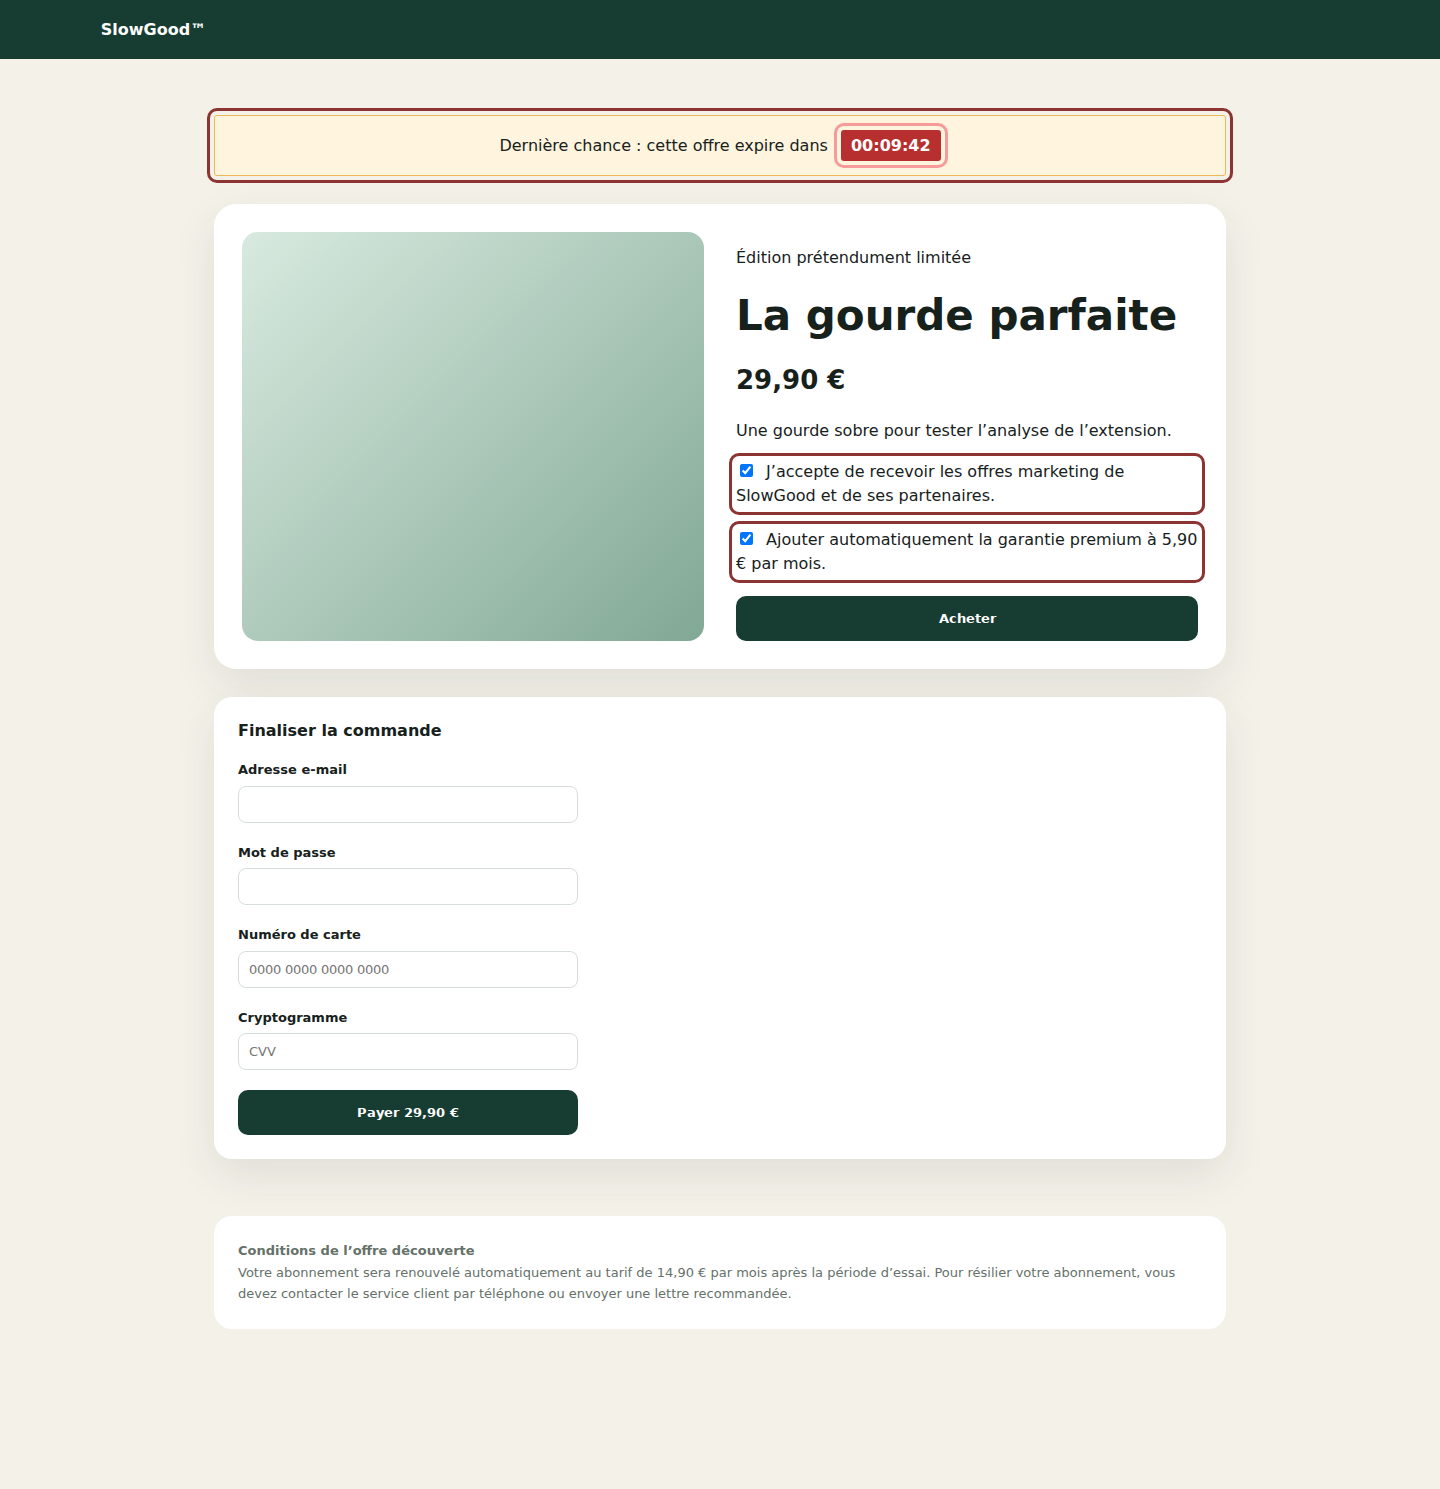
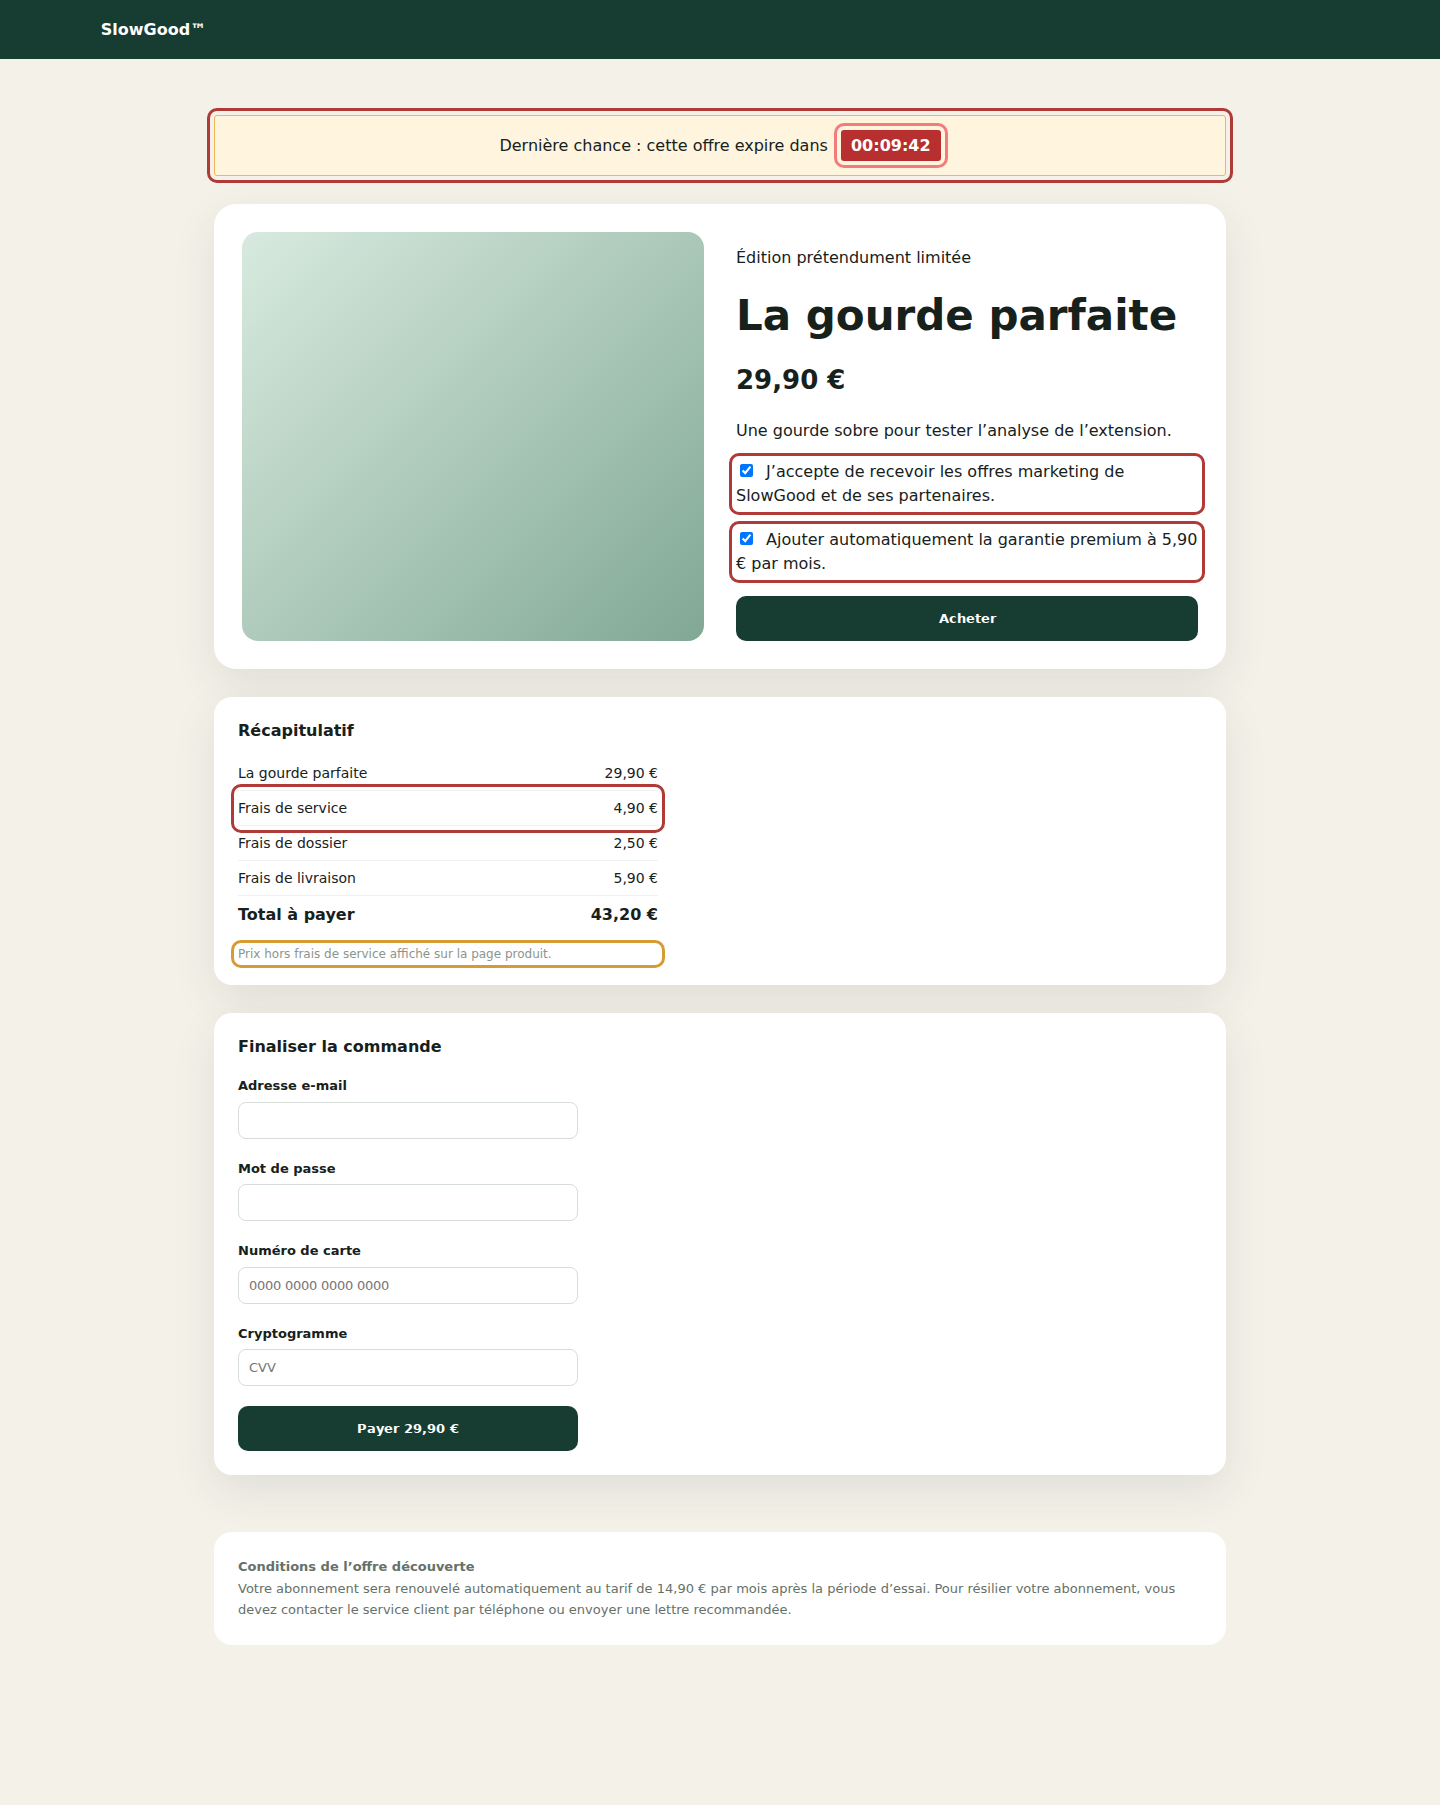
feat: détecter les coûts ajoutés au dernier moment
Le prix mis en avant n'est pas celui que l'acheteur paiera : des frais
apparaissent au récapitulatif ou au paiement. Nouvelle catégorie « Coûts
ajoutés », avec deux détections.

- frais lus dans les lignes courtes d'un récapitulatif, avec leur montant.
  Les frais opaques (service, dossier, gestion, réservation, transaction,
  supplément, booking fee…) sont distingués des frais attendus (livraison,
  port, expédition) : seuls les premiers peuvent porter la sévérité haute.
  Quand un total est présent, le rapport indique la part des frais dedans.
- mentions annonçant un prix incomplet : « hors frais », « + frais »,
  « frais non inclus », « before fees ».

detector-rules.js gagne les expressions correspondantes et parseAmount,
qui lit les montants en format français comme anglais ; test-rules.js
couvre les deux formats et la distinction frais opaques / frais attendus.

Garde-fous, faute de quoi la détection se déclenche hors tunnel d'achat :
la page doit présenter un total ou un vocabulaire d'achat, et les lignes
retenues font au plus 140 caractères. Vérifié sans faux positif sur des
pages économie du Monde et de franceinfo, et sur l'article Wikipédia
« Drip pricing », qui parle de frais sans en facturer.

Faux positif corrigé au passage, relevé sur eventbrite.fr : les heures de
début d'événement (« aujourd'hui à 21:00 ») étaient prises pour des
décomptes. Un motif scheduleMarker écarte désormais jours, mois, dates et
[…]

Changed region(s): [[0.0, 0.0, 1.0, 0.8959]]

diff --git a/content-scanner.js b/content-scanner.js
@@ -4,6 +4,7 @@
   // `detector-rules.js` doit être injecté avant ce fichier : il porte les
   // expressions de détection, partagées avec les tests exécutés sous Node.
   const patterns = globalThis.__dpaDetectorRules?.patterns;
+  const parseAmount = globalThis.__dpaDetectorRules?.parseAmount;
   if (!patterns) {
     console.warn("Dark Pattern Alert : detector-rules.js n’a pas été chargé, analyse annulée.");
     return;
@@ -18,7 +19,8 @@
     preselection: "Choix précoché",
     urgency: "Urgence artificielle",
     visual: "Interface trompeuse",
-    cancellation: "Abonnement et résiliation"
+    cancellation: "Abonnement et résiliation",
+    cost: "Coûts ajoutés"
   };
 
   const state = {
@@ -207,7 +209,8 @@
       commercial: commercialPattern,
       clock: clockPattern,
       duration: durationPattern,
-      readingTime: readingTimePattern
+      readingTime: readingTimePattern,
+      scheduleMarker: schedulePattern
     } = patterns;
 
     const explicitTimers = document.querySelectorAll(
@@ -229,6 +232,9 @@
       const hasClock = clockPattern.test(ownText);
       const hasDuration = durationPattern.test(ownText);
       if (!hasClock && !hasDuration) continue;
+      // Une heure de rendez-vous n’est pas un décompte, même sur une page
+      // marchande : « aujourd’hui à 21:00 », « 7 août, 23:59 ».
+      if (schedulePattern.test(ownText)) continue;
       const context = nearbyText(element);
       if (readingTimePattern.test(context)) continue;
       const marker = lower(`${element.id} ${element.className || ""} ${element.getAttribute("role") || ""}`);
@@ -367,6 +373,94 @@
     }
   };
 
+  // Coûts révélés en fin de parcours : le prix mis en avant n'est pas celui
+  // que l'acheteur paiera. On travaille sur les lignes courtes d'un
+  // récapitulatif, les phrases longues étant du texte éditorial ou légal.
+  const scanLateCosts = (textCandidates) => {
+    const { opaqueFee, expectedFee, totalLabel, hiddenCostMention, commercial } = patterns;
+    const MAX_LINE = 140;
+
+    const lines = textCandidates.filter((element) => {
+      const text = elementText(element, MAX_LINE + 1);
+      return text.length > 0 && text.length <= MAX_LINE;
+    });
+
+    const collect = (pattern) => {
+      const found = new Map();
+      for (const element of lines) {
+        const text = elementText(element, MAX_LINE);
+        if (!pattern.test(text)) continue;
+        const amount = parseAmount(text);
+        if (amount === null || amount <= 0) continue;
+        // Un même montant se répète souvent dans des conteneurs imbriqués.
+        const key = `${lower(text).replace(/[\d.,]/g, "")}|${amount}`;
+        if (!found.has(key)) found.set(key, { element, text, amount });
+      }
+      return [...found.values()];
+    };
+
+    const opaque = collect(opaqueFee);
+    const expected = collect(expectedFee);
+    const totals = collect(totalLabel);
+    const pageIsCommercial = totals.length > 0 || commercial.test(lower(document.body?.innerText?.slice(0, 4000) || ""));
+
+    // Un article de presse peut citer « frais de dossier : 250 € ». Sans
+    // récapitulatif ni vocabulaire d'achat, ce n'est pas un tunnel de paiement.
+    if (!pageIsCommercial) return;
+
+    // Les libellés et montants viennent souvent de deux éléments accolés.
+    const readable = (text) => text.replace(/(\p{L})(?=\d)/gu, "$1 ");
+
+    if (opaque.length > 0 || expected.length > 0) {
+      const feeSum = [...opaque, ...expected].reduce((sum, fee) => sum + fee.amount, 0);
+      const total = totals.reduce((highest, item) => Math.max(highest, item.amount), 0);
+      const share = total > 0 ? feeSum / total : null;
+      const anchor = opaque[0] || expected[0];
+      const listed = [...opaque, ...expected]
+        .slice(0, 4)
+        .map((fee) => readable(fee.text))
+        .join(" · ");
+
+      const heavy = (share !== null && share >= 0.15) || opaque.length >= 3;
+      const detail = [
+        opaque.length > 0
+          ? "Des frais sans contrepartie identifiable s’ajoutent au prix mis en avant."
+          : "Des frais de livraison s’ajoutent au prix mis en avant.",
+        share !== null
+          ? `Ils représentent environ ${Math.round(share * 100)} % du total affiché.`
+          : "Comparez avec le prix annoncé sur la page produit avant de valider.",
+        "Vérifiez le montant réellement débité à l’étape suivante."
+      ].join(" ");
+
+      if (opaque.length > 0 || share === null || share >= 0.05) {
+        addFinding({
+          category: "cost",
+          title: opaque.length > 0 ? "Frais ajoutés au prix annoncé" : "Frais de livraison ajoutés au total",
+          detail,
+          evidence: listed,
+          severity: heavy && opaque.length > 0 ? "high" : "medium",
+          confidence: total > 0 ? 0.9 : 0.72,
+          element: anchor.element
+        });
+      }
+    }
+
+    for (const element of lines) {
+      const text = elementText(element, MAX_LINE);
+      if (!hiddenCostMention.test(text)) continue;
+      addFinding({
+        category: "cost",
+        title: "Prix annoncé sans les frais",
+        detail:
+          "La page prévient que le montant affiché est incomplet. Le coût final n’apparaîtra qu’à une étape ultérieure.",
+        evidence: text,
+        severity: "medium",
+        confidence: 0.8,
+        element
+      });
+    }
+  };
+
   const calculateScore = (findings) => {
     const weights = { high: 22, medium: 12, low: 6 };
     const base = findings.reduce(
@@ -398,6 +492,7 @@
     scanUrgency(textCandidates);
     scanMisleadingControls();
     scanCancellationFriction(textCandidates);
+    scanLateCosts(textCandidates);
 
     if (settings.includeLowConfidence === false) {
       const retained = state.findings.filter((finding) => finding.confidence >= 0.72);

diff --git a/detector-rules.js b/detector-rules.js
@@ -10,6 +10,10 @@
     // Forme durée : le plus souvent un temps de lecture ou de trajet.
     duration: /\b\d{1,2}\s*(?:min(?:ute)?s?|sec(?:onde)?s?)\b/i,
     readingTime: /temps de lecture|min(?:ute)?s? de lecture|reading time|lecture\s*:\s*\d/i,
+    // Horaire annoncé — début de séance, date limite — plutôt que décompte :
+    // un jour, un mois ou la tournure « à 21:00 » désignent un rendez-vous.
+    scheduleMarker:
+      /\b(?:aujourd['’]hui|demain|hier|lundi|mardi|mercredi|jeudi|vendredi|samedi|dimanche|janvier|f[eé]vrier|mars|avril|mai|juin|juillet|ao[uû]t|septembre|octobre|novembre|d[eé]cembre|today|tomorrow|yesterday|monday|tuesday|wednesday|thursday|friday|saturday|sunday|january|february|march|april|june|july|august|september|october|november|december)\b|\b[àa]\s?\d{1,2}\s?[:h]\d{2}\b|\b\d{1,2}[\/.]\d{1,2}[\/.]\d{2,4}\b/i,
     timer:
       /\b(?:\d{1,2}:)?\d{1,2}:\d{2}\b|\b\d{1,2}\s*(?:min(?:ute)?s?|sec(?:onde)?s?)\b/i,
     urgency:
@@ -27,10 +31,43 @@
     autoRenew:
       /renouvel(?:lement|[eé]e?)\s+automatique|reconduit(?:e)?\s+automatiquement|automatically renew|auto[- ]?renew|charged automatically after|factur[eé].{0,50}(?:apr[eè]s|[àa] la fin).{0,40}(?:essai|p[eé]riode)/i,
     onlineCancellationBlock:
-      /impossible de r[eé]silier en ligne|ne peut pas [eê]tre r[eé]sili[eé] en ligne|cannot (?:be )?cancel(?:led)? online|no online cancellation/i
+      /impossible de r[eé]silier en ligne|ne peut pas [eê]tre r[eé]sili[eé] en ligne|cannot (?:be )?cancel(?:led)? online|no online cancellation/i,
+
+    // Frais opaques : leur objet n'est pas une prestation identifiable pour
+    // l'acheteur. Ce sont eux qui caractérisent un prix révélé en plusieurs fois.
+    opaqueFee:
+      /frais\s+(?:de\s+)?(?:service|dossier|gestion|traitement|r[eé]servation|paiement|transaction|plateforme|mise en relation)|frais\s+(?:suppl[eé]mentaires|obligatoires|additionnels|divers)|frais de retard|suppl[eé]ment(?:s)?\b|majoration|service (?:fee|charge)|booking fee|handling fee|processing fee|convenience fee|resort fee|platform fee|surcharge/i,
+    // Frais attendus : légitimes, mais à signaler s'ils n'apparaissent qu'au paiement.
+    expectedFee:
+      /frais\s+(?:de\s+)?(?:livraison|port|exp[eé]dition|transport)|participation aux frais de port|delivery fee|shipping (?:fee|cost|charges?)/i,
+    totalLabel:
+      /\btotal\b|montant (?:total|[àa] payer|d[ûu])|net [àa] payer|reste [àa] payer|order total|grand total|amount due|total to pay/i,
+    hiddenCostMention:
+      /hors frais|frais en sus|frais non inclus|\+\s*frais|hors livraison|hors options|hors taxes|prix hors|excluding fees|fees not included|plus (?:taxes|fees)|before fees/i
   };
 
-  const rules = Object.freeze({ patterns: Object.freeze(patterns) });
+  // Lecture d'un montant affiché, en format français ou anglais.
+  const parseAmount = (text = "") => {
+    const match = String(text).match(
+      /(?:€|EUR|\$|£)\s*([\d   ,.]+)|([\d   ,.]+)\s*(?:€|EUR\b|\$|£)/i
+    );
+    if (!match) return null;
+
+    const raw = (match[1] || match[2] || "").trim().replace(/[.,]$/, "");
+    if (!/\d/.test(raw)) return null;
+
+    let normalized = raw.replace(/[\s  ]/g, "");
+    if (/,\d{1,2}$/.test(normalized)) {
+      normalized = normalized.replace(/\./g, "").replace(",", ".");
+    } else {
+      normalized = normalized.replace(/,/g, "");
+    }
+
+    const value = Number.parseFloat(normalized);
+    return Number.isFinite(value) ? value : null;
+  };
+
+  const rules = Object.freeze({ patterns: Object.freeze(patterns), parseAmount });
   globalThis.__dpaDetectorRules = rules;
 
   if (typeof module !== "undefined" && module.exports) {

diff --git a/test-rules.js b/test-rules.js
@@ -40,3 +40,40 @@ assert.match("3 min", patterns.duration);
 assert.match("Temps de lecture : 4 min", patterns.readingTime);
 assert.doesNotMatch("Plus que 2 min avant la fin de l'offre", patterns.readingTime);
 console.log("Formes horloge, durée et temps de lecture distinguées.");
+
+// Lecture des montants, formats français et anglais
+const { parseAmount } = require("./detector-rules.js");
+assert.equal(parseAmount("Frais de service 4,90 €"), 4.9);
+assert.equal(parseAmount("Total 1 234,56 €"), 1234.56);
+assert.equal(parseAmount("$1,234.56"), 1234.56);
+assert.equal(parseAmount("€29.90"), 29.9);
+assert.equal(parseAmount("Frais de dossier 12€"), 12);
+assert.equal(parseAmount("Livraison offerte"), null);
+assert.equal(parseAmount("06 12 34 56 78"), null);
+assert.equal(parseAmount(""), null);
+
+// Frais opaques contre frais attendus
+assert.match("Frais de service", patterns.opaqueFee);
+assert.match("Frais de dossier", patterns.opaqueFee);
+assert.match("Booking fee", patterns.opaqueFee);
+assert.match("Supplément bagage", patterns.opaqueFee);
+assert.match("Frais de livraison", patterns.expectedFee);
+assert.doesNotMatch("Frais de livraison", patterns.opaqueFee);
+assert.doesNotMatch("Sans frais cachés", patterns.opaqueFee);
+
+// Total et mentions de prix incomplet
+assert.match("Total à payer", patterns.totalLabel);
+assert.match("Montant dû", patterns.totalLabel);
+assert.match("Prix hors frais de service", patterns.hiddenCostMention);
+assert.match("À partir de 19 € + frais", patterns.hiddenCostMention);
+assert.doesNotMatch("Tous frais inclus", patterns.hiddenCostMention);
+
+console.log("Lecture des montants et règles de frais vérifiées.");
+
+// Horaires contre décomptes
+assert.match("aujourd’hui à 21:00", patterns.scheduleMarker);
+assert.match("7 août, 23:59 (CET)", patterns.scheduleMarker);
+assert.match("Jusqu'au 12/09/2026", patterns.scheduleMarker);
+assert.doesNotMatch("00:09:42", patterns.scheduleMarker);
+assert.doesNotMatch("Plus que 02:15", patterns.scheduleMarker);
+console.log("Horaires distingués des décomptes.");

diff --git a/demo/index.html b/demo/index.html
@@ -19,6 +19,11 @@
       label { display: block; margin: 20px 0; line-height: 1.5; }
       input { margin-right: 8px; }
       .buy { width: 100%; padding: 15px; border: 0; border-radius: 10px; background: #173c31; color: white; font-weight: 800; }
+      .summary { padding: 24px; border-radius: 18px; background: white; box-shadow: 0 16px 44px #25362d18; }
+      .summary ul { max-width: 420px; margin: 16px 0 0; padding: 0; list-style: none; }
+      .summary li { display: flex; justify-content: space-between; gap: 24px; padding: 9px 0; border-bottom: 1px solid #eef1ef; font-size: 14px; }
+      .summary .grand-total { border-bottom: 0; font-size: 16px; font-weight: 900; }
+      .fineprint { max-width: 420px; margin: 14px 0 0; color: #8b958e; font-size: 12px; }
       .checkout { padding: 24px; border-radius: 18px; background: white; box-shadow: 0 16px 44px #25362d18; }
       .checkout label { display: grid; gap: 6px; max-width: 340px; font-size: 13px; font-weight: 700; }
       .checkout input { width: 100%; padding: 10px; border: 1px solid #d7ded9; border-radius: 8px; }
@@ -57,6 +62,18 @@
           </label>
           <button class="buy" type="button">Acheter</button>
         </div>
+      </section>
+
+      <section class="summary">
+        <strong>Récapitulatif</strong>
+        <ul>
+          <li><span>La gourde parfaite</span><span>29,90 €</span></li>
+          <li><span>Frais de service</span><span>4,90 €</span></li>
+          <li><span>Frais de dossier</span><span>2,50 €</span></li>
+          <li><span>Frais de livraison</span><span>5,90 €</span></li>
+          <li class="grand-total"><span>Total à payer</span><span>43,20 €</span></li>
+        </ul>
+        <p class="fineprint">Prix hors frais de service affiché sur la page produit.</p>
       </section>
 
       <section class="checkout">

diff --git a/sidepanel.js b/sidepanel.js
@@ -71,7 +71,8 @@ const categoryPresentation = {
   preselection: { label: "Choix précoché", icon: "✓" },
   urgency: { label: "Urgence", icon: "◷" },
   visual: { label: "Interface", icon: "◐" },
-  cancellation: { label: "Abonnement", icon: "↻" }
+  cancellation: { label: "Abonnement", icon: "↻" },
+  cost: { label: "Coûts ajoutés", icon: "€" }
 };
 
 const severityLabels = {
@@ -176,6 +177,7 @@ const startLoadingMessages = () => {
     "Vérification des compteurs et messages d’urgence",
     "Comparaison des boutons et choix proposés",
     "Lecture des conditions d’abonnement",
+    "Addition des frais ajoutés au total",
     "Contrôle du domaine et du chiffrement"
   ];
   let index = 0;

diff --git a/README.md b/README.md
@@ -38,6 +38,7 @@ Chrome 114 minimum (API `sidePanel`).
 | **Urgence artificielle** | compte à rebours, « dernière chance », « offre limitée » dans un contexte marchand |
 | **Interface trompeuse** | refus culpabilisant (« Non merci, je préfère payer plus cher »), bouton d’acceptation nettement plus visible que le refus |
 | **Abonnement et résiliation** | renouvellement automatique, résiliation exigeant un appel ou un courrier, résiliation en ligne impossible |
+| **Coûts ajoutés** | frais de service, de dossier ou de livraison qui gonflent le total après le prix annoncé ; mentions « hors frais », « + frais » ; part des frais dans le total |
 
 Chaque détection porte une **sévérité**, un **niveau de confiance** et l’extrait de page qui l’a déclenchée. Le bouton « Voir dans la page » fait défiler jusqu’à l’élément et l’encadre.
 
@@ -107,7 +108,7 @@ Détail complet dans [`PRIVACY.md`](PRIVACY.md).
 
 ## Page de démonstration
 
-`demo/index.html` rassemble volontairement des cases précochées, un compteur d’urgence, une résiliation par téléphone, un formulaire de paiement envoyé en HTTP vers un domaine tiers et un cadre de suivi masqué.
+`demo/index.html` rassemble volontairement des cases précochées, un compteur d’urgence, un récapitulatif qui ajoute 13,30 € de frais à un prix annoncé de 29,90 €, une résiliation par téléphone, un formulaire de paiement envoyé en HTTP vers un domaine tiers et un cadre de suivi masqué.
 
 Depuis le dossier **parent** du projet :
 
@@ -145,6 +146,7 @@ Séparer la collecte (`site-probe.js`) de l’évaluation (`reputation-rules.js`
 Les résultats sont des **indices explicables, pas des preuves**.
 
 - Un compteur ne peut pas être qualifié de faux à partir d’un seul instantané : l’extension invite à le vérifier plutôt qu’à conclure.
+- Les frais sont lus dans le récapitulatif affiché : sur un tunnel où ils n’apparaissent qu’à l’étape suivante, l’extension ne peut rien voir avant d’y arriver. Un horaire de rendez-vous ou une date limite ne sont pas comptés comme des décomptes.
 - Les contenus rendus dans des iframes ou des composants fermés échappent à l’analyse.
 - Sans base de signalements ni WHOIS, l’analyse de réputation ignore l’âge du domaine et les campagnes d’hameçonnage en cours. **Un score de 100 signifie « rien d’anormal détectable localement », pas « site vérifié ».**
 - La table des médias est un instantané embarqué : un rachat récent n’y figure pas, et un titre absent de la liste n’affiche aucune carte. Elle décrit l’actionnariat, jamais l’indépendance réelle d’une rédaction.
